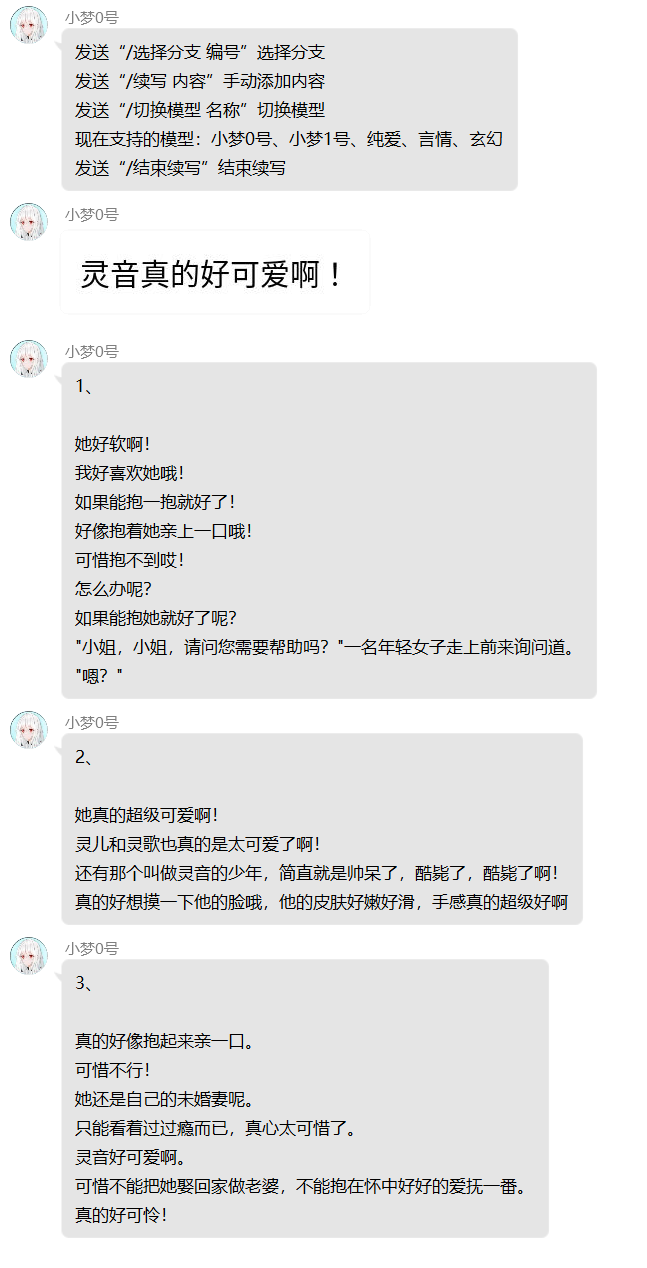
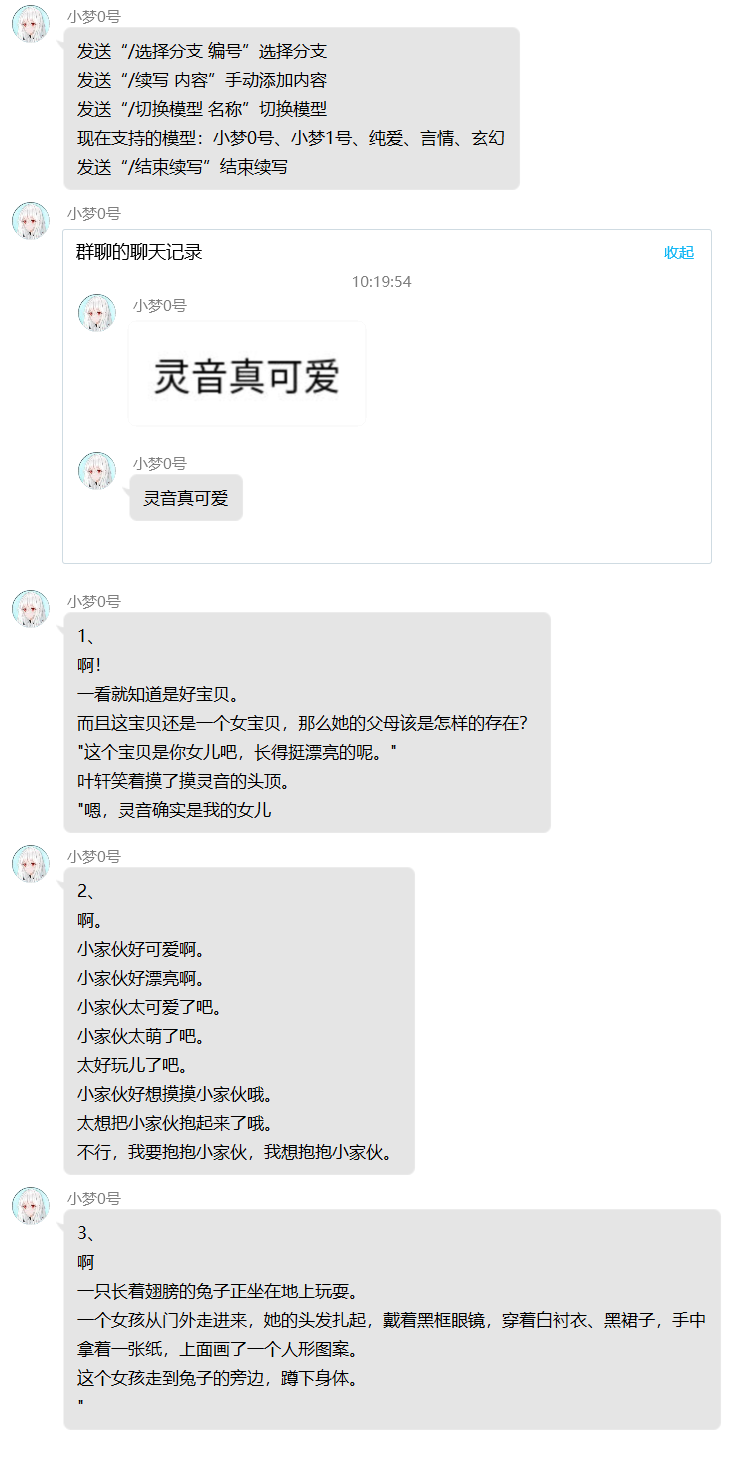
add story text

diff --git a/docs/manual/nonebot2/caiyun.md b/docs/manual/nonebot2/caiyun.md
@@ -26,7 +26,7 @@ tag:
 
 + 第一条消息为指令使用说明，可以指导你更加便捷地操作
 
-+ 第二条消息为目前故事的图片形式，你可以在这里看到你们写出了什么奇怪的故事(
++ 第二条消息为目前故事的图片形式和文本形式合二为一的转发消息，你可以在这里看到你们写出了什么奇怪的故事(
 
 + 下面三条消息分别为茉莉对目前故事所续写的新内容，可以通过指令选择三个分支的一种加入你的故事中
 
